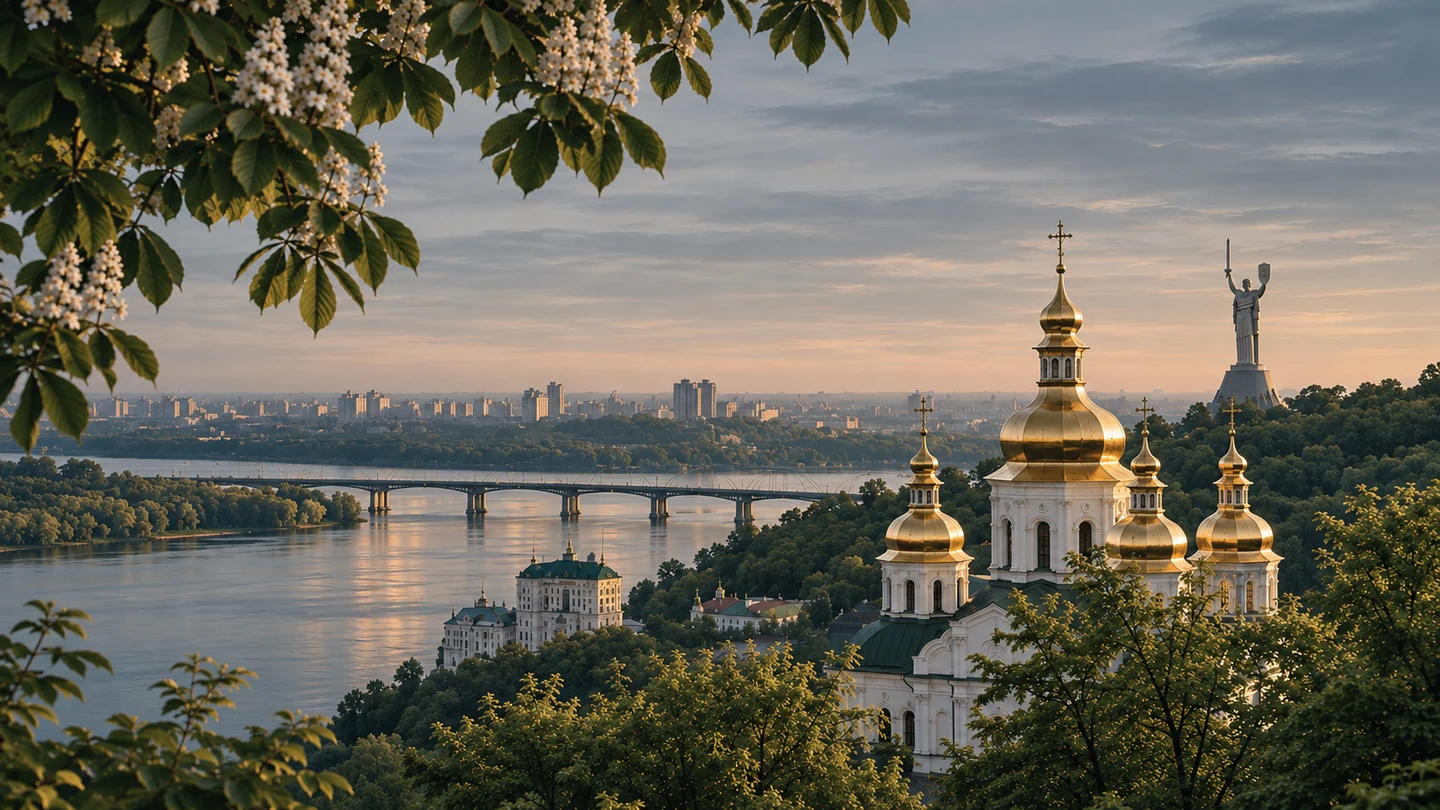
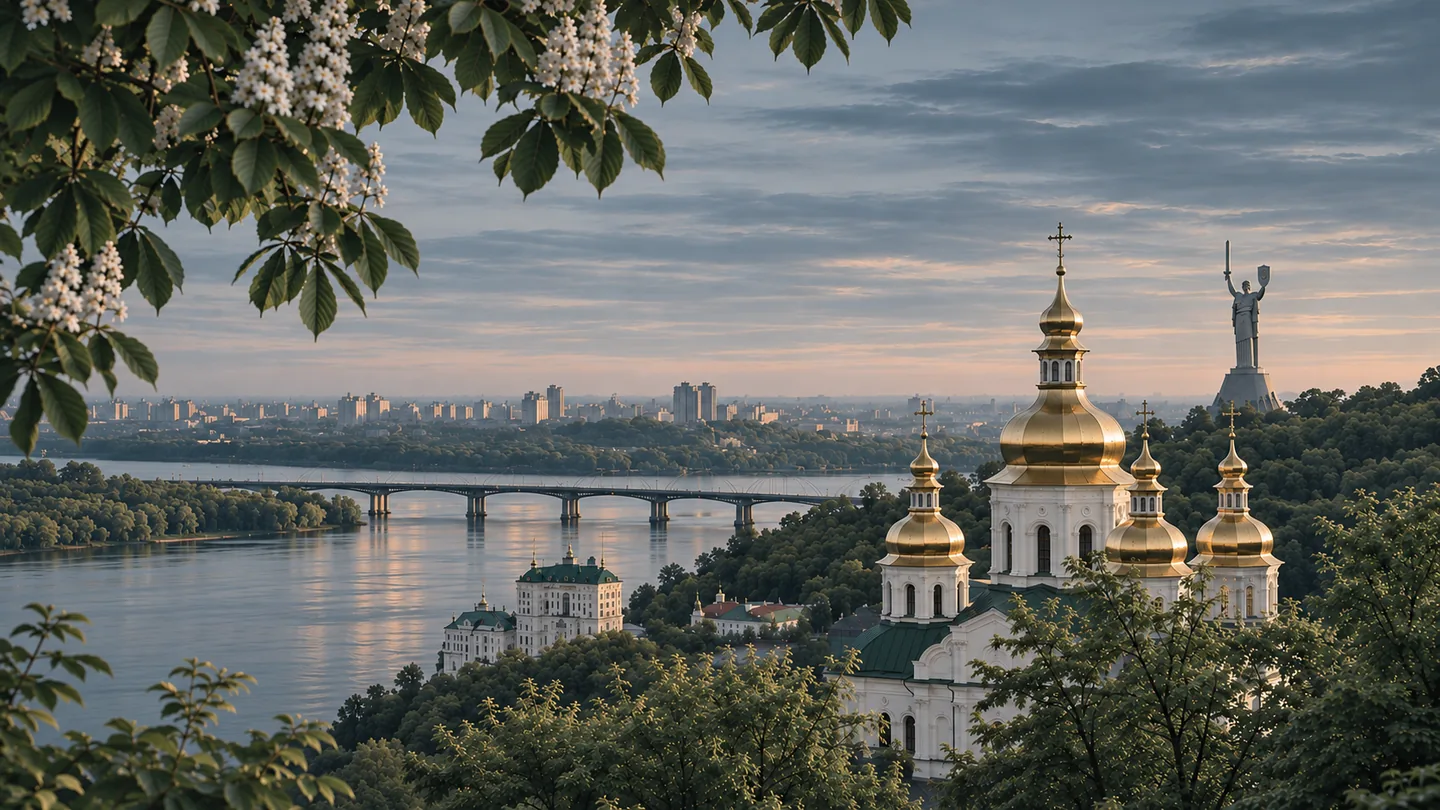
release: approved UA content and calmer Ukraine panoramas

diff --git a/ua/index.html b/ua/index.html
@@ -67,7 +67,7 @@ footer{background:#080808;color:#fff}.footer-main{display:grid;grid-template-col
 .contact-form-section .contact-form-state a{color:var(--ink)}
 @media(max-width:760px){.contact-form-section{padding:46px 0 50px}.contact-form-section .request-form{grid-template-columns:minmax(0,1fr)}.contact-form-section .contact-form-bottom{flex-direction:column}.contact-form-section .contact-form-privacy{max-width:100%}}
 @media(max-width:360px){.contact-form-section .shell{width:min(100%,300px)}}
-</style><link rel="stylesheet" href="/assets/editorial-r16.css?v=R16-xl"><link rel="stylesheet" href="/assets/ua-home-r16.css?v=R16-ua-preview-01"><link rel="canonical" href="https://www.barczuk.com.pl/ua/"><link rel="alternate" hreflang="pl" href="https://www.barczuk.com.pl/"><link rel="alternate" hreflang="uk" href="https://www.barczuk.com.pl/ua/"><link rel="alternate" hreflang="en" href="https://www.barczuk.com.pl/en/"><link rel="alternate" hreflang="de" href="https://www.barczuk.com.pl/de/"><link rel="alternate" hreflang="x-default" href="https://www.barczuk.com.pl/"><link rel="stylesheet" href="/assets/language-switcher-r16.css?v=R16-ua"></head><body><a class="skip" href="#tresc">Перейти до вмісту</a>
+</style><link rel="stylesheet" href="/assets/editorial-r16.css?v=R16-xl"><link rel="stylesheet" href="/assets/ua-home-r16.css?v=R16-ua-20261120"><link rel="canonical" href="https://www.barczuk.com.pl/ua/"><link rel="alternate" hreflang="pl" href="https://www.barczuk.com.pl/"><link rel="alternate" hreflang="uk" href="https://www.barczuk.com.pl/ua/"><link rel="alternate" hreflang="en" href="https://www.barczuk.com.pl/en/"><link rel="alternate" hreflang="de" href="https://www.barczuk.com.pl/de/"><link rel="alternate" hreflang="x-default" href="https://www.barczuk.com.pl/"><link rel="stylesheet" href="/assets/language-switcher-r16.css?v=R16-ua"></head><body><a class="skip" href="#tresc">Перейти до вмісту</a>
 <header class="header"><div class="shell nav"><a class="brand" href="/ua/" aria-label="Barczuk — головна сторінка"><span>Barczuk</span><span class="brand-square brand-dot" aria-hidden="true"></span></a><button class="menu-toggle" aria-controls="main-nav" aria-expanded="false" type="button">Меню <span aria-hidden="true">＋</span></button><nav class="nav-links" id="main-nav" aria-label="Головна навігація"><a href="/ua/finansuvannia/">Фінансування</a><a href="/ua/#jak-pracuje">Етапи</a><a href="/ua/#wspolpraca">Результати</a><a href="#kontakt">Обговорімо </a><a class="nav-cta nav-portal" href="https://portal.barczuk.com.pl/">Клієнтський портал</a></nav><nav class="language-switcher" data-language-switcher aria-label="Вибір мови"><a href="/" hreflang="pl" lang="pl" title="Польська">PL</a><span class="language-divider" aria-hidden="true">/</span><a href="/ua/" hreflang="uk" lang="uk" title="Українська" aria-current="page">UA</a><span class="language-divider" aria-hidden="true">/</span><a href="/en/" hreflang="en" lang="en" title="Англійська">EN</a><span class="language-divider" aria-hidden="true">/</span><a href="/de/" hreflang="de" lang="de" title="Німецька">DE</a></nav></div></header><main id="tresc"><section class="hero"><div class="shell hero-grid"><div class="hero-copy"><p class="eyebrow">Для бізнесу з України в Польщі</p><h1>Незалежне<br>фінансове консультування</h1><p class="lead">Фінансування, банківські гарантії та підтримка у співпраці з банками в Польщі — для компаній з України й підприємств з українським капіталом.</p><p class="experience-tag">Досвід у корпоративному банкінгу з 1995 року</p><div class="hero-actions"><a class="button black" href="#kontakt">Обговорімо потреби вашої компанії </a><a class="text-link" href="/ua/finansuvannia/">Напрями консультування </a></div></div><div class="hero-visual hero-media hero-slideshow" data-hero-slideshow role="img" aria-label="Художні панорами України: Київ над Дніпром, Одеса біля Чорного моря та історичний Львів">
 <img class="hero-slide is-visible" src="/assets/photos-r16/ua/kyiv-dnipro.webp" width="1440" height="810" alt="" aria-hidden="true" fetchpriority="high" decoding="async">
 <img class="hero-slide" src="/assets/photos-r16/ua/odesa.webp" width="1440" height="810" alt="" aria-hidden="true" decoding="async">

diff --git a/docs/barczuk/UA_PREVIEW_R16.md b/docs/barczuk/UA_PREVIEW_R16.md
@@ -1,12 +1,12 @@
 # R16 UA — projekt panoram Ukrainy i wsparcia bankowego
 
-Data: 20.11.2026. Status: **LOKALNY PROJEKT DO OCENY — NIE OPUBLIKOWANO**.
+Data: 20.11.2026. Status: **TREŚCI ZAAKCEPTOWANE, WDROŻENIE ZLECONE — PUBLIKACJA W TOKU**. Dokument zachowuje historię projektu przed wydaniem; dowód publikacji będzie dodany po zakończeniu procesu.
 
 ## Baza i cel
 
 - Odtworzono aktualne `main`: `e4f51d0781c53fb28a2e50602c77abd33a38f181`.
 - Bazowa publikacja produkcji: https://github.com/slawekbarczuk/barczuk.com.pl/actions/runs/44709603253 — success. Ten dowód dotyczy bazy R16, nie niniejszego projektu.
-- Lokalna gałąź projektu: `preview/r16-ua-ukraine-hero-aml`. Nie wysłano jej do GitHub i nie uruchomiono nowego wdrożenia.
+- Pierwszy projekt zapisano lokalnie na gałęzi `preview/r16-ua-ukraine-hero-aml`, commit `755537c`, przed publikacją. Finalne wydanie przygotowywane na `feature/r16-ua-ukraine-hero-aml`.
 - Zlecenie: dopasować Kijów, Odessę i Lwów do istniejącego hero, zachować przenikanie i pokazać bardziej ukierunkowaną na przedsiębiorców z Ukrainy treść, w tym KYC/AML, przed publikacją.
 
 ## Zakres
@@ -26,13 +26,13 @@ Nie deklaruje się gwarancji otwarcia/utrzymania rachunku, decyzji bankowej, biu
 - `ua/index.html` — wynik generowania. Nie edytować ręcznie.
 - `tests/ua-home-r16.test.cjs` i uzupełnienie testów pokazu — trwałość, brak zmian pozostałych stron, trzy obrazy i pętla.
 
-## Treść do zatwierdzenia
+## Zatwierdzona treść
 
 Polski odpowiednik otwarcia: „Finansowanie, gwarancje bankowe oraz wsparcie we współpracy z bankami w Polsce — dla firm z Ukrainy i przedsiębiorstw z ukraińskim kapitałem”.
 
 Blok bankowy: „Rachunki, rozliczenia i wymagania banków”. Wsparcie dotyczy opisu działalności i płatności, struktury własności i beneficjentów rzeczywistych, pochodzenia środków, kompletności dokumentów oraz odpowiedzi na pytania banku. Krótkie wyjaśnienie pokazuje, dlaczego bank może potrzebować dokumentów z kilku krajów. Decyzje należą do banku.
 
-Pełny polski odpowiednik nowych tekstów: `Tresc_PL_do_oceny.html` w lokalnym pakiecie projektu.
+Pełny polski odpowiednik nowych tekstów: `Tresc_PL_do_oceny.html` w lokalnym pakiecie projektu. Użytkownik zaakceptował treści 20.11.2026 i zlecił wdrożenie, z dodatkowym dopasowaniem kolorystyki obrazów.
 
 Podstawa informacyjna: https://www.gov.pl/web/finanse/komunikat-nr-73-w-sprawie-wykluczania-niektorych-kategorii-klientow-z-nawiazywania-stosunkow-gospodarczych-derisking-oraz-skarg-wnoszonych-do-generalnego-inspektora-informacji-finansowej-przez-klientow-instytucji-obowiazanych oraz komunikat GIIF nr 45. Wymagania są opisywane jako ocena konkretnej relacji, bez automatycznego przypisywania ryzyka narodowości.
 
@@ -45,4 +45,4 @@ Podstawa informacyjna: https://www.gov.pl/web/finanse/komunikat-nr-73-w-sprawie-
 
 ## Publikacja
 
-Oczekuje na ocenę projektu i treści przez użytkownika. Następnie ponownie sprawdzić aktualne `main`, uzgodnić różnice, przygotować wydanie, sprawdzić testy i dopiero na podstawie nowego polecenia opublikować. Nie oznaczać tego etapu jako wdrożonego.
+Polecenie publikacji zostało udzielone 20.11.2026. Potwierdzono bazę `main` = `e4f51d0`, finalnie dopasowano obrazy do `fabryczna.webp` i `piotrkowska.webp`, zachowując miękkie światło. Eksport trzech grafik: 1440 × 810 WebP, łącznie około 550 KB. Wszystkie 61 testów przechodzi. Publikacja i weryfikacja produkcji oczekują na potwierdzenie — nie oznaczać jako wdrożonego bez wyniku GitHub Actions.

diff --git a/docs/barczuk/DECISIONS.md b/docs/barczuk/DECISIONS.md
@@ -15,9 +15,9 @@
 - **D-011, 2026-11-19:** Dokumentacja ciągłości prac jest aktualizowana po każdej większej zmianie. Publiczne repo zawiera tylko jawne informacje; prywatna implementacja portalu i dane klientów muszą być przechowywane oddzielnie.
 - **D-012, 2026-11-20:** W publicznej witrynie R16 „Porozmawiajmy” jest zwykłym przedostatnim linkiem, a obramowana „Strefa klienta” ostatnią pozycją przed językami. Kolejność języków to **PL / UA / EN / DE** na wszystkich stronach. Należy zachować tę decyzję w generatorze. Portal R08 ma odrębny cykl wydań i wymaga osobnej synchronizacji interfejsu, jeśli zostanie o nią poproszone.
 
-## Decyzje jeszcze wymagające szczegółowego projektu
+- **D-013, 2026-11-20:** Użytkownik zaakceptował treści i zlecił wdrożenie trzech panoram Ukrainy oraz wsparcia bankowego/KYC/AML wyłącznie na stronie głównej UA. Finalnie zbliżyć kolorystykę do zdjęć Łodzi, z zachowaniem delikatnego ciepła i przyjaznego nastroju. Zachować R16, pozostałe języki oraz pokaz 8 s / 1,6 s. Treści i obrazy mają być odtwarzalne z generatora; decyzje bankowe pozostają po stronie banku.
 
-- **Projekt UA, 2026-11-20 — do oceny przed publikacją:** na wyraźne zlecenie użytkownika przygotowano trzy kadry Ukrainy oraz wsparcie bankowe/KYC/AML tylko dla strony głównej UA. Zachować R16, pozostałe języki i wspólny mechanizm pokazu 8 s / 1,6 s. Publikacja oczekuje na ocenę projektu; nie jest to jeszcze zmiana produkcyjna. Treści i obrazy muszą być odtwarzalne z generatora, nie ręcznie poprawiane w wynikowym HTML.
+## Decyzje jeszcze wymagające szczegółowego projektu
 
 - Role i dostęp: administrator/doradca/klient, udostępnianie do teczek, wieloosobowa reprezentacja firmy, MFA/Conditional Access i kontrola dostępu do API.
 - Struktura rejestru spraw, dokumentów, umów, historii zmian i obowiązków kredytowych.

diff --git a/assets/photos-r16/ua/SOURCES.md b/assets/photos-r16/ua/SOURCES.md
@@ -4,7 +4,7 @@ Trzy obrazy są artystycznymi wizualizacjami w stylu fotograficznym, a nie dokum
 
 - `kyiv-dnipro.webp`: dostosowanie panoramy Kijowa przekazanej przez użytkownika w tej rozmowie.
 - `odesa.webp`, `lviv.webp`: dostosowanie wcześniejszych wygenerowanych propozycji zatwierdzonych do dalszego opracowania przez użytkownika.
-- Edycja: wbudowane generowanie/edycja obrazów; punktem odniesienia kolorystycznego był rzeczywisty plik `assets/photos-r16/piotrkowska.webp` z R16.
-- Eksport: 1440 × 810 px, WebP; oryginały PNG i dokładne prompty zachowane w lokalnym pakiecie projektu `barczuk-ua-r16-podglad-2026-11-20`.
+- Edycja: wbudowane generowanie/edycja obrazów. Po akceptacji treści 20.11.2026 użytkownik zlecił dalsze, umiarkowane zbliżenie kolorystyki do zdjęć Łodzi. Ostatecznymi odniesieniami były rzeczywiste pliki `assets/photos-r16/fabryczna.webp` i `assets/photos-r16/piotrkowska.webp` z R16; zachowano delikatne ciepło i jasność detali.
+- Eksport: 1440 × 810 px, WebP; oryginały PNG i dokładne prompty zachowane lokalnie w pakietach projektu oraz wydania `barczuk-ua-r16-wdrozenie-2026-11-20`.
 - Bez napisów, logo, interfejsu i maski rozjaśniającej zapisanej w obrazie. Istniejąca maska hero pozostaje po stronie CSS.
-- Status: projekt do oceny; bez publikacji produkcyjnej.
+- Status: treści i wdrożenie zaakceptowane przez użytkownika 20.11.2026, finalne obrazy przygotowane. Dowód publikacji będzie odnotowany w `docs/barczuk/STATE.md` i `CHANGELOG.md` po zakończeniu procesu wydania.

diff --git a/RELEASE_R16.md b/RELEASE_R16.md
@@ -61,3 +61,11 @@ Kontrola wizualna tej wersji w przeglądarce nie została ukończona: narzędzie
 - Lokalizacje generowane z kanonicznej treści polskiej przez scripts/build-i18n-r16.cjs i pliki i18n; bez automatycznego przekierowywania na podstawie języka przeglądarki.
 - Rozszerzono sitemap.xml do 15 adresów i dodano testy SEO, dostępności przełącznika, kompletności stron i regresji funkcji.
 - Wersja widoczna w stopce bez zmian: SB-WEB-1126-R16.
+
+## R16 UA — panoramy Ukrainy i wsparcie bankowe (20.11.2026)
+
+- Użytkownik zaakceptował treści i zlecił publikację. Status procesu i dowody wdrożenia: `docs/barczuk/STATE.md` oraz `CHANGELOG.md`.
+- Tylko strona główna UA: Kijów / Odessa / Lwów, 1440 × 810 WebP; wspólny mechanizm 8 s / 1,6 s. Kolorystykę finalnie dopasowano do zdjęć Łodzi, zachowując delikatne ciepło.
+- Treść kierowana do firm z Ukrainy i przedsiębiorstw z ukraińskim kapitałem, sekcja rachunków/rozliczeń/KYC/AML, krótkie rozwijane wyjaśnienia i kontakt. Decyzje o rachunku pozostają po stronie banku.
+- Trwałe źródło: `i18n/ua-home-r16.json` i `scripts/localize-ua-home-r16.cjs` wywoływany z generatora UA wyłącznie dla strony głównej. Osobny CSS wczytywany tylko przez `/ua/`.
+- 61 testów przechodzi, w tym dwukrotna regeneracja i brak zmian pozostałych wersji. Zachowano PL/EN/DE, pozostałe podstrony UA, P04/API, wspólne style, skrypt pokazu i wydanie SB-WEB-1126-R16.

diff --git a/docs/barczuk/STATE.md b/docs/barczuk/STATE.md
@@ -2,9 +2,9 @@
 
 Statusy: **POTWIERDZONE** = dowód w GitHub/Azure lub test użytkownika; **PLAN** = zatwierdzony kierunek, bez implementacji; **DO WERYFIKACJI** = brak wystarczającego dowodu.
 
-## Lokalny projekt UA — DO OCENY, BEZ PUBLIKACJI (20.11.2026)
+## Wydanie UA — ZAAKCEPTOWANE, PUBLIKACJA W TOKU (20.11.2026)
 
-Przygotowano na bazie `e4f51d0` trzy panoramy Ukrainy (Kijów, Odessa, Lwów) i treść dotyczącą firm z Ukrainy, finansowania w Polsce oraz wsparcia w procedurach KYC/AML. Trwałe źródło UA-home i kontrola regeneracji są gotowe lokalnie; 61 testów przechodzi, sprawdzono komputer i telefon. Nie wysłano zmian do GitHub i nie wdrożono na produkcję. Szczegóły: [UA_PREVIEW_R16.md](UA_PREVIEW_R16.md). Potwierdzony stan produkcji opisany poniżej pozostaje bez zmian.
+Użytkownik zaakceptował treści i wyraźnie zlecił wdrożenie 20.11.2026, prosząc o dodatkowe, umiarkowane zbliżenie panoram do kolorystyki Łodzi. Przygotowano finalne kadry Kijowa, Odessy i Lwowa oraz trwałe źródło UA-home z treścią dla firm z Ukrainy i wsparciem KYC/AML. 61 testów przechodzi; pozostałe języki i podstrony UA zachowane. Oczekuje na potwierdzenie publikacji GitHub Actions i kontrolę produkcji. Szczegóły: [UA_PREVIEW_R16.md](UA_PREVIEW_R16.md). Nie traktować tej sekcji jako dowodu zakończonego wdrożenia.
 
 ## 1. Publiczna witryna — POTWIERDZONE
 

diff --git a/docs/barczuk/ROADMAP.md b/docs/barczuk/ROADMAP.md
@@ -13,11 +13,12 @@ Punkt startowy: R16 witryny publicznej i R08 Strefy klienta, zalogowanie Microso
 
 ## Etap 1 — Panel doradcy i rejestr przedsiębiorstw (następny)
 
-### Równoległy lokalny projekt witryny UA — przed publikacją
+### Witryna UA — zaakceptowane wydanie
 
 - [x] Projekt hero Kijów / Odessa / Lwów, treści bankowej i trwałej generacji UA-home; lokalne testy i widoki komputera/telefonu.
-- [ ] Ocena przez użytkownika wyglądu i polskich odpowiedników nowej treści.
-- [ ] Po nowym poleceniu: aktualizacja względem bieżącego `main`, publikacja i weryfikacja wdrożenia. Szczegóły: [UA_PREVIEW_R16.md](UA_PREVIEW_R16.md).
+- [x] Ocena i akceptacja treści przez użytkownika oraz wyraźne polecenie wdrożenia 20.11.2026.
+- [x] Finalne, umiarkowane dopasowanie kolorystyki trzech panoram do rzeczywistych zdjęć Łodzi; eksport 1440 × 810 WebP.
+- [ ] Publikacja i potwierdzenie produkcyjnego wdrożenia. Szczegóły: [UA_PREVIEW_R16.md](UA_PREVIEW_R16.md).
 
 - [ ] Ustalić schemat kont użytkowników i minimalne uprawnienia doradca/administrator/klient oraz granice dostępu.
 - [ ] Bezpieczny rejestr przedsiębiorstw B2B z identyfikatorem wewnętrznym i statusem relacji, bez fikcyjnych danych produkcyjnych.

diff --git a/docs/barczuk/CHANGELOG.md b/docs/barczuk/CHANGELOG.md
@@ -1,5 +1,12 @@
 # Dziennik kamieni milowych BARCZUK
 
+## 2026-11-20 — zaakceptowane wydanie UA: finalna kolorystyka i wsparcie bankowe — PUBLIKACJA W TOKU
+
+- Użytkownik zaakceptował treść projektu i wyraźnie zlecił wdrożenie. Zastrzeżenie dotyczyło dalszego umiarkowanego zbliżenia kolorów do rzeczywistych fotografii Łodzi.
+- Finalnie dopasowano Kijów, Odessę i Lwów: chłodniejsze neutralne odcienie, spokojniejsza zieleń i refleksy, z zachowaniem delikatnego ciepła. Pliki 1440 × 810 WebP, około 550 KB łącznie.
+- 61 testów przechodzi; pełne generowanie jest stabilne. PL/EN/DE, pozostałe podstrony UA, wspólne style/slideshow, P04/API i hosting bez zmian.
+- Status: przygotowano wydanie na `feature/r16-ua-ukraine-hero-aml`; wynik publikacji i kontrola produkcji zostaną dopisane po potwierdzeniu.
+
 ## 2026-11-20 — lokalny projekt UA: panoramy Ukrainy i wsparcie bankowe — DO OCENY
 
 - Baza: `e4f51d0781c53fb28a2e50602c77abd33a38f181`; lokalna gałąź `preview/r16-ua-ukraine-hero-aml`.
